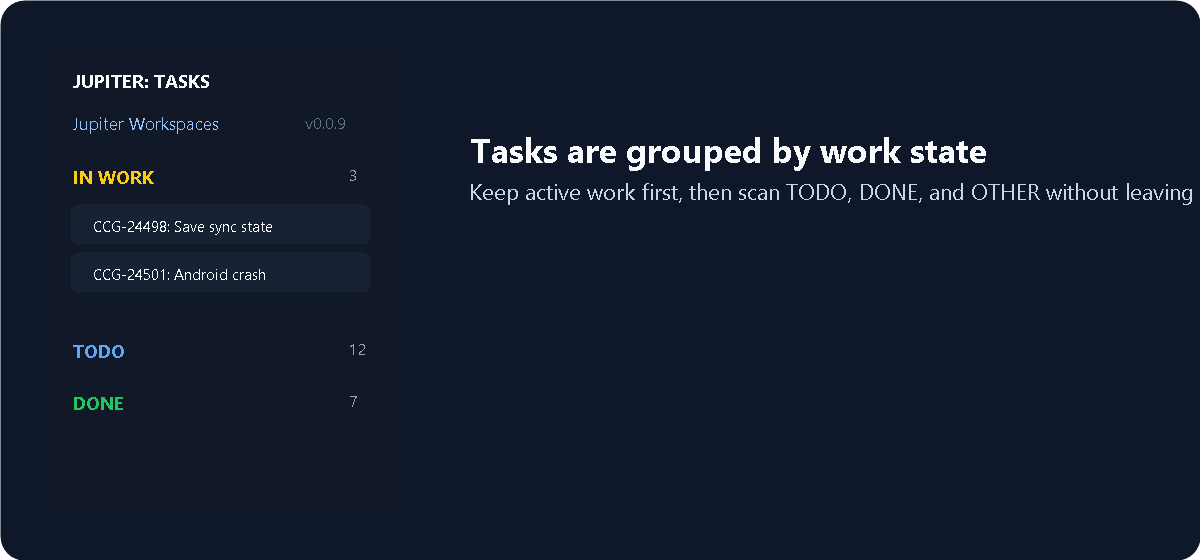
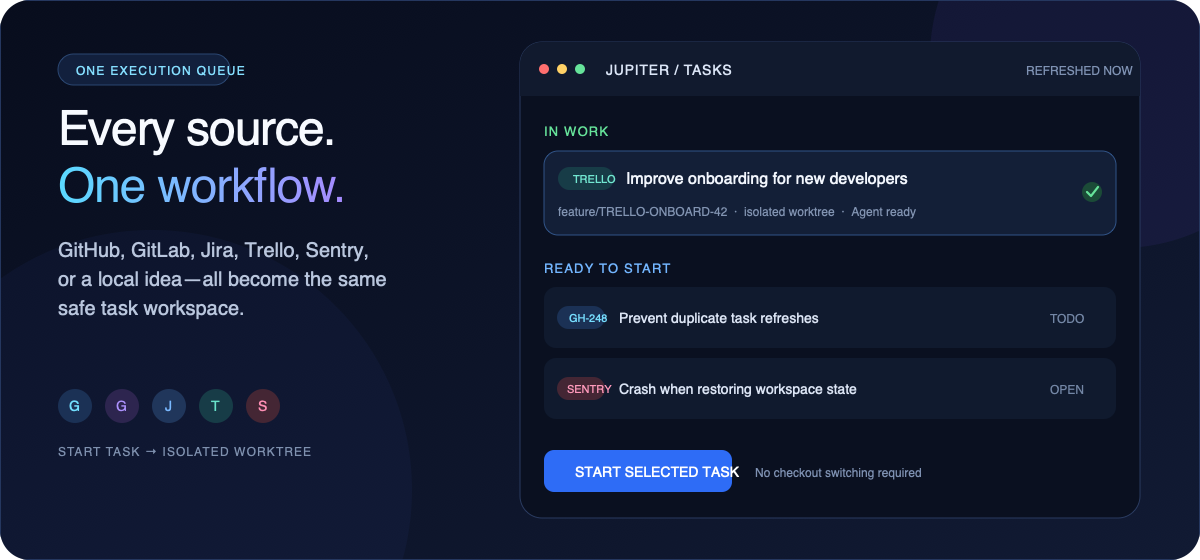
Refresh Jupiter Marketplace marketing

diff --git a/README.md b/README.md
@@ -1,29 +1,80 @@
 # Jupiter Workspaces
 
-Jupiter turns every Jira issue into an isolated VS Code workspace.
+## Finish the task. Skip the branch juggling.
 
-Start a Jira task and Jupiter creates a dedicated git worktree, task branch, AI chat context, GitHub pull request, and Jira link in one flow. Work on multiple issues without switching one checkout back and forth or losing local state.
+Jupiter turns a GitHub issue, GitLab issue, Jira ticket, Trello card, Sentry bug, or local idea into a focused VS Code workspace: its own Git worktree, its own branch, and an AI agent that starts with the right context.
 
-![Jupiter task flow](https://raw.githubusercontent.com/irov/jupiter-marketplace/main/resources/marketplace-flow.png)
+Work on several tasks in parallel without stashing, switching one checkout back and forth, or wondering whether an agent is editing the right branch.
 
-## Why Jupiter?
+**Task → isolated worktree → task-aware AI → reviewed change → pull or merge request**
 
-Most Jira extensions help you view tasks. Jupiter helps you execute them.
+[Install Jupiter Workspaces from Visual Studio Marketplace](https://marketplace.visualstudio.com/items?itemName=wonderland.jupiter-io)
 
-- Work on multiple Jira issues in parallel with one git worktree per task.
-- Preserve SSH or HTTPS remotes from your current workspace.
-- Open a task-aware `@jupiter` chat context for the active issue.
-- Push the branch, create a GitHub PR, and link it back to Jira.
-- Diagnose Jira, Git, GitHub auth, and workspace remote setup from VS Code.
+![Jupiter connects tasks, Git, AI, and review in one orbit](https://raw.githubusercontent.com/irov/jupiter-marketplace/main/resources/marketplace-flow.png)
 
-## Screenshots
+## One execution layer for all your work
 
-![Grouped Jira task queue](https://raw.githubusercontent.com/irov/jupiter-marketplace/main/resources/marketplace-tasks.png)
+Most tracker extensions stop after showing you a list. Jupiter carries a task into an isolated workspace and keeps its source, Git state, AI context, changed files, and delivery actions together until review.
 
-![Task detail and local workspace state](https://raw.githubusercontent.com/irov/jupiter-marketplace/main/resources/marketplace-detail.png)
+| The usual workflow | With Jupiter |
+| --- | --- |
+| Switch branches, stash changes, and reopen context | Start a dedicated worktree and workspace for each task |
+| Copy a ticket into chat and explain the repository again | Open Codex or Copilot with the task, branch, repository, and guardrails attached |
+| Check the tracker, terminal, Git view, CI, and browser separately | See task state, files, actions, and PR/MR delivery in one place |
+| Hope automation is running in the intended checkout | Keep the task bound to its verified branch and worktree |
+| Put provider tokens in scripts or prompts | Keep credentials in VS Code SecretStorage |
 
-![Task-aware chat context](https://raw.githubusercontent.com/irov/jupiter-marketplace/main/resources/marketplace-chat.png)
+## Every source. One workflow.
 
-## Public Repository Scope
+GitHub, GitLab, Jira, Trello, Sentry, and local tasks all enter the same execution queue. Start the work you want; Jupiter creates or restores its isolated environment.
 
-This repository hosts the public Marketplace README and image assets. The private extension source repository uses these assets during packaging so the Marketplace page can render images from public raw GitHub URLs without duplicating them in the private git history.
+![Tasks from multiple sources in one Jupiter queue](https://raw.githubusercontent.com/irov/jupiter-marketplace/main/resources/marketplace-tasks.png)
+
+## Git without checkout anxiety
+
+Review exactly what changed for one task. Inspect files and diffs, commit and push, rebase safely, run a GitHub Actions workflow, and create a pull or merge request without leaving Task Details. External actions remain explicit.
+
+![Task-scoped Git state and delivery actions](https://raw.githubusercontent.com/irov/jupiter-marketplace/main/resources/marketplace-detail.png)
+
+## AI that starts in the right place
+
+Create a Codex or Copilot agent from the task instead of rebuilding context by hand. Jupiter attaches the task, repository, required branch, worktree path, source details, and repository instructions—and verifies the worktree boundary before Git actions.
+
+![Task-aware AI context in Jupiter](https://raw.githubusercontent.com/irov/jupiter-marketplace/main/resources/marketplace-chat.png)
+
+## Connect only what you need
+
+| Area | Available workflows |
+| --- | --- |
+| Task sources | GitHub Issues, GitLab Issues, Jira Cloud, Trello cards, Sentry bugs, local custom tasks |
+| Repository hosts | GitHub, GitLab.com, self-managed GitLab |
+| AI | OpenAI Codex IDE, Codex CLI, VS Code Chat / GitHub Copilot |
+| Delivery | Commit and push, GitHub pull requests, GitLab merge requests, Jira review links |
+| Context | Local Jupiter MCP tools for current tasks, Git state, approved actions, and connected knowledge |
+| Collaboration | Optional Telegram topics connected to durable local Codex sessions |
+
+## Start your first task
+
+1. Install Jupiter and open your main repository checkout in VS Code.
+2. Run **Jupiter: Setup Wizard** and confirm the repository, base branch, worktree location, and AI provider.
+3. Open the Jupiter Activity Bar view, refresh tasks, and choose **Start Task**. You can also create a custom task.
+4. In the task workspace, choose **Create Agent**, review the resulting changes, then commit, push, and create the PR or MR from Jupiter.
+
+Jira, Trello, Sentry, Telegram, MCP, GitHub Actions, releases, and QAA are optional. The core task-to-worktree flow works without enabling every integration.
+
+## Local-first by design
+
+- Project state stays with the local workspace; Jupiter adds no hosted Jupiter cloud service.
+- Provider credentials remain in VS Code SecretStorage and are not placed in AI prompts.
+- A branch is not pushed and a PR, MR, or source transition is not created silently.
+- Diagnostics report configuration and access problems without printing stored secrets.
+
+## Ready to give every task its own workspace?
+
+[Install Jupiter Workspaces](https://marketplace.visualstudio.com/items?itemName=wonderland.jupiter-io) and run **Jupiter: Setup Wizard**.
+
+Questions or feedback are welcome in the [public Jupiter issue tracker](https://github.com/irov/jupiter-marketplace/issues). Never include provider tokens or other secrets in an issue.
+
+---
+
+This repository hosts the public Marketplace copy and image assets. The extension package references these public raw GitHub images so they render on the Visual Studio Marketplace page.

diff --git a/resources/source/README.md b/resources/source/README.md
@@ -1,0 +1,23 @@
+# Marketplace asset sources
+
+Run `../../scripts/render-assets.sh` from this directory, or `./scripts/render-assets.sh` from the repository root, to rebuild the four 1200×560 Marketplace PNGs.
+
+- `marketplace-tasks.svg`, `marketplace-detail.svg`, and `marketplace-chat.svg` are deterministic SVG sources with editable copy.
+- `marketplace-hero-art.png` is the source for `marketplace-flow.png`. The render script resizes and crops it to the Marketplace banner aspect ratio.
+- The public `resources/marketplace-*.png` files are generated outputs referenced by the extension README.
+
+## Hero provenance
+
+Generated on 2026-08-28 with the built-in OpenAI image generation tool using this final prompt:
+
+```text
+Use case: ads-marketing
+Asset type: Visual Studio Marketplace hero background for a developer productivity extension
+Primary request: Create a premium wide dark-space illustration that communicates one software task moving safely through an isolated workspace, an AI agent, Git review, and completion.
+Scene/backdrop: Deep navy space with a subtle blue-violet atmospheric glow and sparse fine stars; no busy nebula.
+Subject: A polished orange Jupiter-like planet on the right, with one elegant luminous orbital path connecting four small floating glass-like developer workflow symbols: a task card/checkmark, a Git branch, an AI sparkle, and a pull-request approval check. Symbols must be simple, recognizable, and contain no words.
+Style/medium: High-end product marketing illustration, restrained 3D plus clean vector geometry, suitable for a professional VS Code developer tool.
+Composition/framing: Very wide banner composition. Keep the entire left 48 percent calm, dark, and low-detail as negative space for later typography. Cluster the planet and orbital workflow on the right half. Maintain safe margins.
+Lighting/mood: Confident, focused, premium; cyan, violet, mint, and warm amber accents over deep navy.
+Constraints: No text, no letters, no numbers, no logos, no watermark, no fake application screenshot, no people, no rockets. Crisp at Marketplace banner scale.
+```
